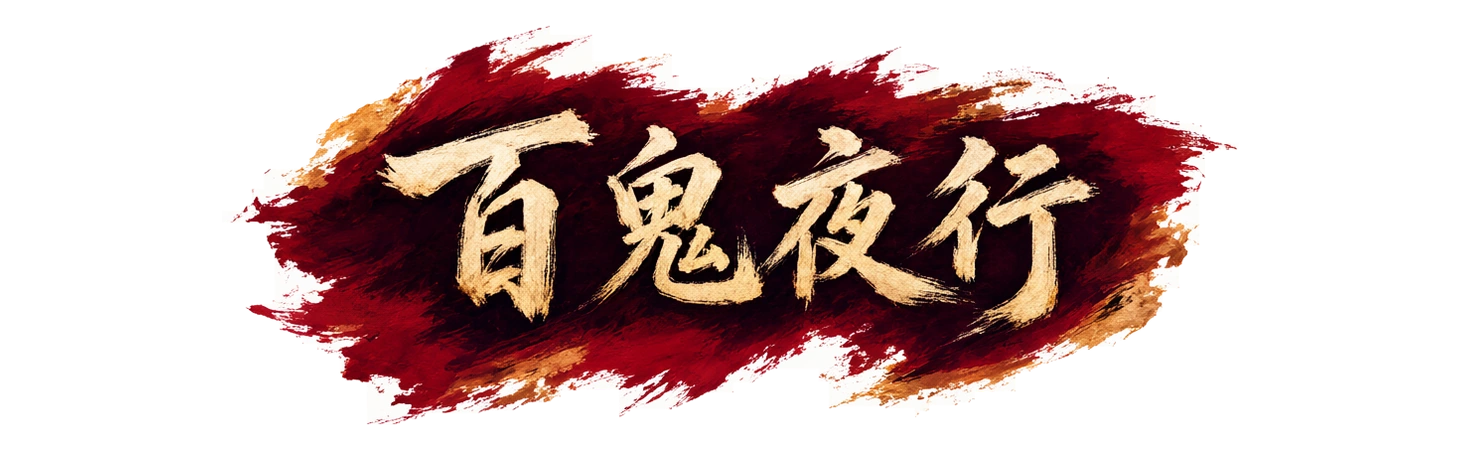
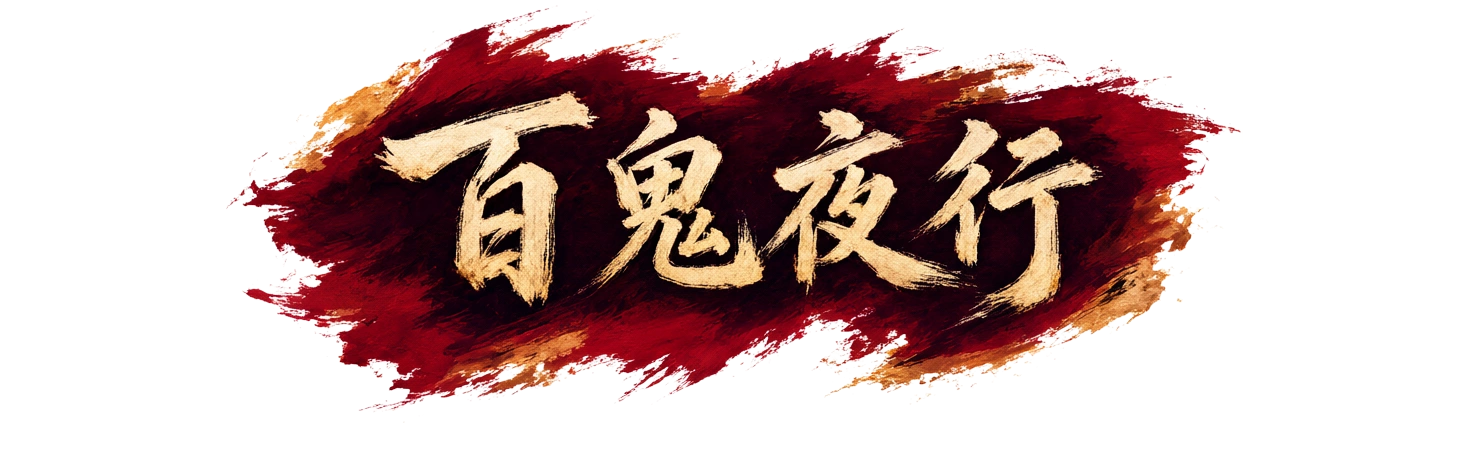
feat(ui): publish revised surge brush art and refresh media cache

Changed region(s): [[0.1539, 0.0311, 0.8618, 0.9644]]

diff --git a/service-worker.js b/service-worker.js
@@ -512,7 +512,7 @@ const MEDIA_REVISIONS = {
   "assets/img/tank.webp": "fad88f4ddeae620e16d3220d",
   "assets/img/tank_motion_v1.png": "d7aadc6932d1d2f4bf64bacd",
   "assets/img/tank_motion_v1.webp": "c5491157893ccf8286f1abc7",
-  "assets/img/ui/awaken_seal.svg": "b5dcbc2ac7abc0e73b18d659",
+  "assets/img/ui/awaken_seal.svg": "7853c94fa10a7aff8232d979",
   "assets/img/ui/b12/camera_medallion.webp": "ee6ba7bbd069114847edd25b",
   "assets/img/ui/b12/modal_board.webp": "1d28c8f250452a5fa9a44631",
   "assets/img/ui/b12/passive_crit.webp": "69566e9ed6d320556a6c6a7f",
@@ -541,7 +541,7 @@ const MEDIA_REVISIONS = {
   "assets/img/ui/b13/passive_shield.webp": "ae686f7751d7c1975145f532",
   "assets/img/ui/b13/passive_spd.webp": "3ce68ed5c385c3d87976e738",
   "assets/img/ui/b13/surge_warning.webp": "fc75879d86162b6f40389190",
-  "assets/img/ui/b14/surge_brush.webp": "e02511091bc0d955773cf772",
+  "assets/img/ui/b14/surge_brush.webp": "a4d9cb5df8e3e3df0f70c4b4",
   "assets/img/ui/charm-passive/b10/omamori_cadence.webp": "395c403a39a4c60aa812db54",
   "assets/img/ui/charm-passive/b10/omamori_gather.webp": "a9d20339ef3cfda5155343ec",
   "assets/img/ui/charm-passive/b10/omamori_guard.webp": "a4c3b0147c6d5949aad03c98",

diff --git a/index.html b/index.html
@@ -153,7 +153,7 @@
   <script src="js/renderer.js?v=20261102-water-slam-sfx"></script>
   <script src="js/fx.js?v=20261101-s2b17"></script>
   <script src="js/skillfx.js?v=20261101-s2b17"></script>
-  <script src="js/ui.js?v=20261103-p1-hotfix-c"></script>
+  <script src="js/ui.js?v=20261103-surge-brush-r2"></script>
   <script src="js/overworld-layout.js?v=20261101-s2b17"></script>
   <script src="js/overworld.js?v=20261101-s2b17"></script>
   <script src="js/evolutions.js?v=20261101-s2b17"></script>

diff --git a/js/ui.js b/js/ui.js
@@ -248,7 +248,7 @@ window.UI = (() => {
   if(typeof window.Image==="function"){
     const img=new window.Image();img.decoding="async";
     img.onload=()=>{b14SurgeBrush=img;};
-    img.src="assets/img/ui/b14/surge_brush.webp?v=20261101-b14";
+    img.src="assets/img/ui/b14/surge_brush.webp?v=20261103-surge-brush-r2";
   }
   const b12Art = Object.create(null);
   // B13 ComfyUI: entirely new matching painted menu/paper/button art.

diff --git a/roadmap.md b/roadmap.md
@@ -1,3 +1,9 @@
+## 2026-11-03 B14 警報毛筆素材正式更新
+
[1 lines of base64/hex data omitted]
+- 更新 `js/ui.js` 圖片 URL 版本、`index.html` 的 UI 模組版本與 `service-worker.js` 的媒體 SHA256 修訂碼，避免圖片被舊快取永久攔截；同步更新 UI cache 測試、B14 原圖精確 hash 及 service worker 對應 hash 斷言。未修改戰鬥邏輯、動畫時序、圖片裁切或關卡素材。
+- 同輪後續處理完整歷史測試中的過期 VM harness 與舊規格，Phase 30 暫不開啟。
+
 ## 2026-11-03 工作樹同步完成／配送字卡測試補正
 
 - 原始主工作樹已在檢查 205 個備份檔逐檔 SHA256 與 safety branch `safety/precleanup-original-20261103` 後，安全對齊正式 `origin/master`，再依經過核准的 `git clean -n` 清單移出 26 個已備份本機暫存檔。原有 650 筆 Git status 全部清除，原始 `master` 潔淨。備份位於 `I:\Projects\_yokai-delivery-precleanup-20261103`（`manifest.json` + 205 檔）；本機原始 `art/`、Agent skills、7 個候選 VFX 圖、package-lock 與測試設定留在本機，未提升為正式發布資產。
